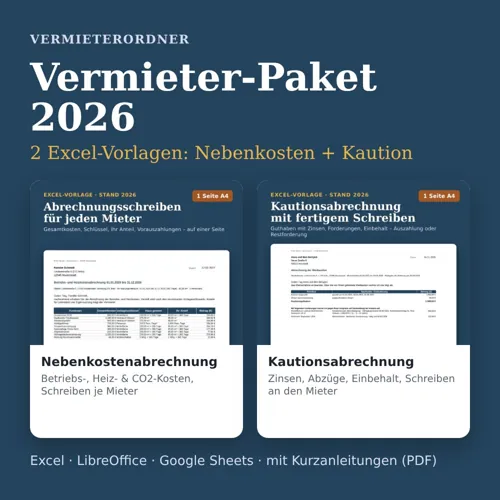
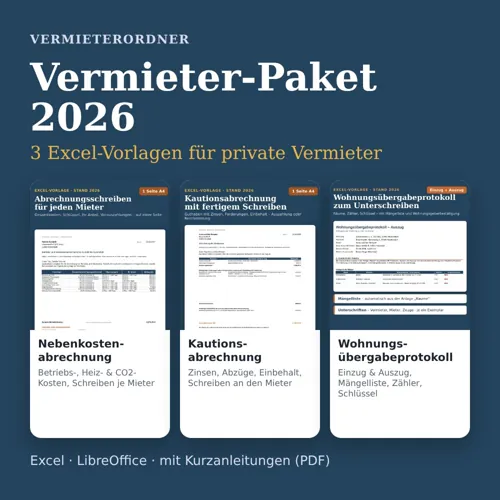
Wohnungsübergabeprotokoll: Checkout aktiv (DS24 759547 genehmigt), Produkt-Pin
Claude-Session: https://claude.ai/code/session_0175UiJjZS6AvFwhkbq53yr1

Changed region(s): [[0.06, 0.36, 0.96, 0.93], [0.36, 0.27, 0.84, 0.33], [0.06, 0.3, 0.09, 0.33]]

diff --git a/docs/wohnungsuebergabeprotokoll.html b/docs/wohnungsuebergabeprotokoll.html
@@ -18,7 +18,7 @@
 <link rel="icon" href="favicon.svg" type="image/svg+xml">
 <link rel="icon" href="favicon-48.png" sizes="48x48" type="image/png"><link rel="apple-touch-icon" href="apple-touch-icon.png">
 <meta name="theme-color" content="#24435C">
-<script type="application/ld+json">{"@context": "https://schema.org", "@type": "FAQPage", "mainEntity": [{"@type": "Question", "name": "Läuft diese Vorlage in Google Sheets?", "acceptedAnswer": {"@type": "Answer", "text": "Sie ist für Microsoft Excel (Windows/Mac) und LibreOffice Calc gebaut. In Google Sheets ist sie nicht getestet."}}, {"@type": "Question", "name": "Brauche ich für Einzug und Auszug zwei Dateien?", "acceptedAnswer": {"@type": "Answer", "text": "Nein. Sie legen beim Einzug eine Kopie an und verwenden sie beim Auszug weiter: das Feld „Art“ auf „Auszug“ stellen und die Spalten für den Auszug ausfüllen. So steht der Vergleich automatisch daneben."}}, {"@type": "Question", "name": "Kann ich auch auf Papier protokollieren?", "acceptedAnswer": {"@type": "Answer", "text": "Ja. Die Blätter „Räume“, „Zähler“ und „Schlüssel“ lassen sich leer ausdrucken, beim Termin von Hand ausfüllen und später in die Datei übertragen."}}, {"@type": "Question", "name": "Wie bekomme ich die Datei?", "acceptedAnswer": {"@type": "Answer", "text": "Direkt nach der Zahlung über den Download-Link auf der Bestätigungsseite und zusätzlich per E-Mail von Digistore24."}}, {"@type": "Question", "name": "Welche Programme brauche ich?", "acceptedAnswer": {"@type": "Answer", "text": "Die Nebenkosten- und die Kautionsabrechnung laufen in Microsoft Excel (Windows/Mac), LibreOffice Calc und Google Sheets – in Google Sheets fehlen der Blattschutz und einige Farbmarkierungen, die Berechnungen stimmen trotzdem. Welche Programme für jede Vorlage gelten, steht auf der jeweiligen Produktseite. Zum Drucken empfehlen wir Excel oder LibreOffice; Sie können auch als PDF speichern."}}, {"@type": "Question", "name": "Für wen sind die Vorlagen gebaut?", "acceptedAnswer": {"@type": "Answer", "text": "Für private Vermieter von Wohnraum in Deutschland. Für Gewerberaum sind sie nicht gebaut. Was jede Vorlage genau abdeckt, steht auf der jeweiligen Produktseite."}}]}</script><script type="application/ld+json">{"@context": "https://schema.org", "@type": "BreadcrumbList", "itemListElement": [{"@type": "ListItem", "position": 1, "name": "Vermieterordner", "item": "https://vermieterordner.de/"}, {"@type": "ListItem", "position": 2, "name": "Wohnungsübergabeprotokoll", "item": "https://vermieterordner.de/wohnungsuebergabeprotokoll.html"}]}</script>
+<script type="application/ld+json">{"@context": "https://schema.org", "@type": "Product", "name": "Wohnungsübergabeprotokoll", "description": "Einzug und Auszug Raum für Raum protokollieren – mit Mängelliste, Zählern, Schlüsseln und Unterschriftsfeldern.", "image": "https://vermieterordner.de/img/uebergabeprotokoll-1.jpg", "brand": {"@type": "Brand", "name": "Vermieterordner"}, "offers": {"@type": "Offer", "price": "9.90", "priceCurrency": "EUR", "availability": "https://schema.org/InStock", "url": "https://vermieterordner.de/wohnungsuebergabeprotokoll.html"}}</script><script type="application/ld+json">{"@context": "https://schema.org", "@type": "FAQPage", "mainEntity": [{"@type": "Question", "name": "Läuft diese Vorlage in Google Sheets?", "acceptedAnswer": {"@type": "Answer", "text": "Sie ist für Microsoft Excel (Windows/Mac) und LibreOffice Calc gebaut. In Google Sheets ist sie nicht getestet."}}, {"@type": "Question", "name": "Brauche ich für Einzug und Auszug zwei Dateien?", "acceptedAnswer": {"@type": "Answer", "text": "Nein. Sie legen beim Einzug eine Kopie an und verwenden sie beim Auszug weiter: das Feld „Art“ auf „Auszug“ stellen und die Spalten für den Auszug ausfüllen. So steht der Vergleich automatisch daneben."}}, {"@type": "Question", "name": "Kann ich auch auf Papier protokollieren?", "acceptedAnswer": {"@type": "Answer", "text": "Ja. Die Blätter „Räume“, „Zähler“ und „Schlüssel“ lassen sich leer ausdrucken, beim Termin von Hand ausfüllen und später in die Datei übertragen."}}, {"@type": "Question", "name": "Wie bekomme ich die Datei?", "acceptedAnswer": {"@type": "Answer", "text": "Direkt nach der Zahlung über den Download-Link auf der Bestätigungsseite und zusätzlich per E-Mail von Digistore24."}}, {"@type": "Question", "name": "Welche Programme brauche ich?", "acceptedAnswer": {"@type": "Answer", "text": "Die Nebenkosten- und die Kautionsabrechnung laufen in Microsoft Excel (Windows/Mac), LibreOffice Calc und Google Sheets – in Google Sheets fehlen der Blattschutz und einige Farbmarkierungen, die Berechnungen stimmen trotzdem. Welche Programme für jede Vorlage gelten, steht auf der jeweiligen Produktseite. Zum Drucken empfehlen wir Excel oder LibreOffice; Sie können auch als PDF speichern."}}, {"@type": "Question", "name": "Für wen sind die Vorlagen gebaut?", "acceptedAnswer": {"@type": "Answer", "text": "Für private Vermieter von Wohnraum in Deutschland. Für Gewerberaum sind sie nicht gebaut. Was jede Vorlage genau abdeckt, steht auf der jeweiligen Produktseite."}}]}</script><script type="application/ld+json">{"@context": "https://schema.org", "@type": "BreadcrumbList", "itemListElement": [{"@type": "ListItem", "position": 1, "name": "Vermieterordner", "item": "https://vermieterordner.de/"}, {"@type": "ListItem", "position": 2, "name": "Wohnungsübergabeprotokoll", "item": "https://vermieterordner.de/wohnungsuebergabeprotokoll.html"}]}</script>
 </head>
 <body>
 <header><div class="wrap">
@@ -31,14 +31,14 @@
 <p class="eyebrow">Excel-Vorlage · Stand 2026</p>
 <h1 class="serif">Wohnungsübergabeprotokoll für private Vermieter – als Excel-Vorlage</h1>
 <p class="lead">Eine Datei für Einzug und Auszug: Zustand Raum für Raum erfassen, Zählerstände und Schlüssel eintragen, Protokoll drucken und unterschreiben lassen. Beim Auszug zeigt die Vorlage automatisch, was seit dem Einzug neu ist – dazu eine Mängelliste und die Wohnungsgeberbestätigung für den Einzug.</p>
-<span class="btn soon" aria-disabled="true">Bald verfügbar</span>
-<p class="note">Erscheint in Kürze: Die Vorlage ist fertig und geprüft, der Kauf über Digistore24 wird gerade eingerichtet.</p>
+<a class="btn" href="https://www.checkout-ds24.com/product/759547" rel="nofollow">Jetzt kaufen – 9,90&nbsp;€</a>
+<p class="note">Digitales Produkt · Download-Link direkt nach dem Kauf · Einmalzahlung, kein Abo</p>
 </div>
 <div><picture><source type="image/webp" srcset="img/uebergabeprotokoll-1-500.webp 500w, img/uebergabeprotokoll-1.webp 1000w" sizes="(max-width:640px) 100vw, 460px"><img class="heroimg" src="img/uebergabeprotokoll-1.jpg" width="1000" height="1000" alt="Produktbild Wohnungsübergabeprotokoll"></picture></div>
 </div>
 <section class="band"><div class="wrap">
 <h2 class="serif">Das bekommen Sie</h2>
-<div class="split"><div><table class="spec"><tr><th>Produkt</th><td>Wohnungsübergabeprotokoll</td></tr><tr><th>Art</th><td>Digitales Produkt zum Herunterladen. Kein Versand, keine Installation, kein Abo.</td></tr><tr><th>Format</th><td>ZIP-Datei mit leerer Excel-Vorlage, ausgefülltem Beispiel (.xlsx) und PDF-Kurzanleitung, Sprache Deutsch.</td></tr><tr><th>Inhalt</th><td>7 Arbeitsblätter: Start mit Übersicht und 8 Prüfungen, Räume (90 Positionen), Zähler, Schlüssel, Protokoll (2 Seiten A4), Wohnungsgeberbestätigung, Info mit Checkliste.</td></tr><tr><th>Lieferung</th><td>Nach Verkaufsstart: Download-Link sofort nach der Zahlung, zusätzlich per E-Mail</td></tr><tr><th>Preis</th><td><strong>9,90&nbsp;€ einmalig</strong></td></tr><tr><th>Für wen</th><td>private Vermieter von Wohnraum – je Übergabe eine Kopie der leeren Vorlage</td></tr></table></div>
+<div class="split"><div><table class="spec"><tr><th>Produkt</th><td>Wohnungsübergabeprotokoll</td></tr><tr><th>Art</th><td>Digitales Produkt zum Herunterladen. Kein Versand, keine Installation, kein Abo.</td></tr><tr><th>Format</th><td>ZIP-Datei mit leerer Excel-Vorlage, ausgefülltem Beispiel (.xlsx) und PDF-Kurzanleitung, Sprache Deutsch.</td></tr><tr><th>Inhalt</th><td>7 Arbeitsblätter: Start mit Übersicht und 8 Prüfungen, Räume (90 Positionen), Zähler, Schlüssel, Protokoll (2 Seiten A4), Wohnungsgeberbestätigung, Info mit Checkliste.</td></tr><tr><th>Lieferung</th><td>Download-Link sofort nach der Zahlung, zusätzlich per E-Mail</td></tr><tr><th>Preis</th><td><strong>9,90&nbsp;€ einmalig</strong></td></tr><tr><th>Für wen</th><td>private Vermieter von Wohnraum – je Übergabe eine Kopie der leeren Vorlage</td></tr></table></div>
 <div class="shots"><picture><source type="image/webp" srcset="img/uebergabeprotokoll-1-500.webp 500w, img/uebergabeprotokoll-1.webp 1000w" sizes="(max-width:640px) 100vw, 360px"><img src="img/uebergabeprotokoll-1.jpg" width="1000" height="1000" alt="Beispielansicht Wohnungsübergabeprotokoll" loading="lazy"></picture><picture><source type="image/webp" srcset="img/uebergabeprotokoll-2-500.webp 500w, img/uebergabeprotokoll-2.webp 1000w" sizes="(max-width:640px) 100vw, 360px"><img src="img/uebergabeprotokoll-2.jpg" width="1000" height="1000" alt="Beispielansicht Wohnungsübergabeprotokoll" loading="lazy"></picture><picture><source type="image/webp" srcset="img/uebergabeprotokoll-3-500.webp 500w, img/uebergabeprotokoll-3.webp 1000w" sizes="(max-width:640px) 100vw, 360px"><img src="img/uebergabeprotokoll-3.jpg" width="1000" height="1000" alt="Beispielansicht Wohnungsübergabeprotokoll" loading="lazy"></picture></div></div>
 </div></section>
 <section><div class="wrap"><h2 class="serif">Was das Produkt kann</h2><div class="grid2"><div class="feat"><h3>Raum für Raum</h3><p>90 Positionen in 11 Bereichen plus 8 freie Zeilen – je Position Zustand, Beschreibung und Foto-Nr., getrennt für Einzug und Auszug. Positionen lassen sich umbenennen oder als „entfällt“ markieren.</p></div><div class="feat"><h3>Vergleich mit dem Einzug</h3><p>Beim Auszug zeigt die Spalte „Vergleich“, was neu seit dem Einzug ist, was schon bei Einzug vorhanden war und wo nur Gebrauchsspuren hinzugekommen sind.</p></div><div class="feat"><h3>Zähler und Schlüssel</h3><p>Zählerstände mit Zählernummer (14 Zeilen) und die übergebenen Schlüssel mit Art und Anzahl (11 Zeilen).</p></div><div class="feat"><h3>Protokoll zum Unterschreiben</h3><p>Zwei Seiten A4 mit Angaben, Ergebnis, Mängelliste, Zählern, Schlüsseln, Vereinbarungen und Unterschriftsfeldern – die Räume-Liste wird als Anlage mitgedruckt.</p></div><div class="feat"><h3>Wohnungsgeberbestätigung</h3><p>Für den Einzug: die Bestätigung nach §&nbsp;19 Bundesmeldegesetz, die der Mieter für die Anmeldung braucht.</p></div><div class="feat"><h3>Prüfungen und Fristen</h3><p>8 Prüfungen auf fehlende Angaben. Beim Auszug nennt die Vorlage das Datum, an dem Ersatzansprüche wegen Schäden verjähren (6 Monate ab Rückgabe, §&nbsp;548 BGB), beim Einzug die Frist für die Wohnungsgeberbestätigung.</p></div></div></div></section>
@@ -48,10 +48,11 @@
 <h3>Läuft diese Vorlage in Google Sheets?</h3><p>Sie ist für Microsoft Excel (Windows/Mac) und LibreOffice Calc gebaut. In Google Sheets ist sie nicht getestet.</p><h3>Brauche ich für Einzug und Auszug zwei Dateien?</h3><p>Nein. Sie legen beim Einzug eine Kopie an und verwenden sie beim Auszug weiter: das Feld „Art“ auf „Auszug“ stellen und die Spalten für den Auszug ausfüllen. So steht der Vergleich automatisch daneben.</p><h3>Kann ich auch auf Papier protokollieren?</h3><p>Ja. Die Blätter „Räume“, „Zähler“ und „Schlüssel“ lassen sich leer ausdrucken, beim Termin von Hand ausfüllen und später in die Datei übertragen.</p><h3>Wie bekomme ich die Datei?</h3><p>Direkt nach der Zahlung über den Download-Link auf der Bestätigungsseite und zusätzlich per E-Mail von Digistore24.</p><h3>Welche Programme brauche ich?</h3><p>Die Nebenkosten- und die Kautions&shy;abrechnung laufen in Microsoft Excel (Windows/Mac), LibreOffice Calc und Google Sheets – in Google Sheets fehlen der Blattschutz und einige Farbmarkierungen, die Berechnungen stimmen trotzdem. Welche Programme für jede Vorlage gelten, steht auf der jeweiligen Produktseite. Zum Drucken empfehlen wir Excel oder LibreOffice; Sie können auch als PDF speichern.</p><h3>Für wen sind die Vorlagen gebaut?</h3><p>Für private Vermieter von Wohnraum in Deutschland. Für Gewerberaum sind sie nicht gebaut. Was jede Vorlage genau abdeckt, steht auf der jeweiligen Produktseite.</p>
 </div></section>
 <section id="kaufen" class="band"><div class="wrap buy">
-<h2 class="serif">Wohnungsübergabeprotokoll – bald verfügbar</h2>
-<p class="sub2">Erscheint in Kürze: Die Vorlage ist fertig und geprüft, der Kauf über Digistore24 wird gerade eingerichtet.</p>
+<h2 class="serif">Wohnungsübergabeprotokoll kaufen</h2>
+<p class="sub2">Digitaler Download · sofort nach der Zahlung verfügbar</p>
 <div class="price-big serif">9,90&nbsp;€</div>
-<span class="btn btn-lg soon" aria-disabled="true">Bald verfügbar</span>
+<a class="btn btn-lg" href="https://www.checkout-ds24.com/product/759547" rel="nofollow">Jetzt kaufen</a>
+<p class="note">Sichere Zahlung und Rechnung über Digistore24. Preis inkl. gesetzlicher MwSt., sofern anfallend.</p>
 </div></section>
 </main>
 <footer><div class="wrap">

diff --git a/docs/uebergabeprotokoll-wohnung.html b/docs/uebergabeprotokoll-wohnung.html
@@ -61,7 +61,7 @@
 <h2 class="serif" id="checkliste">Checkliste für den Übergabetermin</h2>
 <ol><li>Termin früh vereinbaren, bei Tageslicht – mit Mietvertrag, Einzugsprotokoll, Zollstock, Kamera und Ersatzstift.</li><li>Ablesedienst für die Zwischenablesung bestellen.</li><li>Angaben eintragen: Anschrift, Datum, Uhrzeit, Anlass, Anwesende.</li><li>Raum für Raum durchgehen: Wände, Decke, Boden, Fenster, Türen, Heizkörper, Elektrik, Sanitär, Einbauten.</li><li>Jeden Mangel mit Lage, Größe und Foto-Nummer beschreiben; Gebrauchsspuren als solche kennzeichnen.</li><li>Heizung, Warmwasser, Rollläden und Rauchwarnmelder ausprobieren.</li><li>Alle Zählerstände mit Zählernummer notieren und fotografieren.</li><li>Schlüssel zählen und mit der Liste abgleichen.</li><li>Vereinbarungen mit Frist aufschreiben, Vorbehalt für verdeckte Mängel einfügen.</li><li>Beide unterschreiben, jede Seite erhält ein Exemplar. Beim Einzug die Wohnungsgeberbestätigung übergeben, beim Auszug das Datum für die 6-Monats-Frist notieren.</li></ol>
 <p>Die <a href="wohnungsuebergabeprotokoll.html">Excel-Vorlage Wohnungsübergabeprotokoll</a> enthält 90 Positionen in 11 Bereichen, Zähler- und Schlüssellisten, ein zweiseitiges Protokoll zum Unterschreiben und die Wohnungsgeberbestätigung. Beim Auszug zeigt sie automatisch, was seit dem Einzug neu ist, und nennt das Datum, an dem Ihre Ersatzansprüche verjähren.</p>
-<div class="cta"><h3>Wohnungsübergabeprotokoll</h3><p>Einzug und Auszug Raum für Raum protokollieren – mit Mängelliste, Zählern, Schlüsseln und Unterschriftsfeldern.</p><p class="note">Erscheint in Kürze.</p><a class="btn" href="wohnungsuebergabeprotokoll.html">Wohnungsübergabeprotokoll ansehen</a></div>
+<div class="cta"><h3>Wohnungsübergabeprotokoll</h3><p>Einzug und Auszug Raum für Raum protokollieren – mit Mängelliste, Zählern, Schlüsseln und Unterschriftsfeldern.</p><a class="btn" href="wohnungsuebergabeprotokoll.html">Wohnungsübergabeprotokoll ansehen</a></div>
 <h2 class="serif" id="faq">Häufige Fragen</h2><div class="faq" style="max-width:none"><h3>Muss der Mieter das Übergabeprotokoll unterschreiben?</h3><p>Nur wenn der Mietvertrag es vorsieht – eine gesetzliche Pflicht gibt es nicht. Verweigert der Mieter die Unterschrift, vermerken Sie das im Protokoll, unterschreiben selbst und lassen nach Möglichkeit einen Zeugen gegenzeichnen. Fotos mit Datum werden dann umso wichtiger.</p><h3>Reichen Fotos statt eines Protokolls?</h3><p>Fotos sind ein guter Beleg, ersetzen aber nicht die gemeinsame Erklärung beider Seiten über den Zustand. Am stärksten ist die Kombination – im Protokoll steht zu jedem Mangel die Foto-Nummer.</p><h3>Was ist mit Mängeln, die erst nach der Rückgabe auffallen?</h3><p>Für Mängel, die beim Termin nicht erkennbar waren, sollte das Protokoll einen Vorbehalt enthalten („verdeckte Mängel bleiben vorbehalten“). Melden Sie sie dem Mieter so bald wie möglich – Ersatzansprüche wegen Schäden verjähren auch hier 6 Monate nach Rückgabe der Wohnung.</p><h3>Muss ich beim Auszug die Zählerstände ablesen?</h3><p>Für Heizung und Warmwasser schreibt die Heizkosten&shy;verordnung bei einem Nutzerwechsel grundsätzlich eine Zwischenablesung durch den Gebäudeeigentümer vor (§&nbsp;9b HeizkostenV) – oft erledigt das der Ablesedienst. Notieren Sie trotzdem alle Stände mit Zählernummer im Protokoll; das hilft bei der nächsten Nebenkosten&shy;abrechnung.</p></div>
 <h2 class="serif">Quellen</h2><ul class="src"><li><a href="https://www.gesetze-im-internet.de/bgb/__536b.html" rel="noopener">§&nbsp;536b BGB – Kenntnis des Mieters vom Mangel bei Vertragsschluss oder Annahme (gesetze-im-internet.de)</a></li><li><a href="https://www.gesetze-im-internet.de/bgb/__538.html" rel="noopener">§&nbsp;538 BGB – Abnutzung der Mietsache durch vertragsgemäßen Gebrauch (gesetze-im-internet.de)</a></li><li><a href="https://www.gesetze-im-internet.de/bgb/__548.html" rel="noopener">§&nbsp;548 BGB – Verjährung der Ersatzansprüche und des Wegnahmerechts (gesetze-im-internet.de)</a></li><li><a href="https://www.gesetze-im-internet.de/bgb/__193.html" rel="noopener">§&nbsp;193 BGB – Sonn- und Feiertag; Sonnabend (gesetze-im-internet.de)</a></li><li><a href="https://www.gesetze-im-internet.de/heizkostenv/__9b.html" rel="noopener">§&nbsp;9b HeizkostenV – Kostenaufteilung bei Nutzerwechsel (gesetze-im-internet.de)</a></li><li><a href="https://www.gesetze-im-internet.de/bmg/__17.html" rel="noopener">§&nbsp;17 BMG – Anmeldung, Abmeldung (gesetze-im-internet.de)</a></li><li><a href="https://www.gesetze-im-internet.de/bmg/__19.html" rel="noopener">§&nbsp;19 BMG – Mitwirkung des Wohnungsgebers (gesetze-im-internet.de)</a></li><li><a href="https://dejure.org/dienste/vernetzung/rechtsprechung?Gericht=OLG+Dresden&amp;Datum=07.09.2022&amp;Aktenzeichen=5+U+816%2F22" rel="noopener">OLG Dresden, Urteil vom 07.09.2022, 5 U 816/22 – Wirkung eines Rückgabeprotokolls (dejure.org)</a></li><li><a href="https://dejure.org/dienste/vernetzung/rechtsprechung?Gericht=BGH&amp;Datum=05.03.2014&amp;Aktenzeichen=VIII+ZR+205%2F13" rel="noopener">BGH, Urteil vom 05.03.2014, VIII ZR 205/13 – Schlüsselverlust bei Schließanlage (dejure.org)</a></li><li><a href="https://dejure.org/dienste/vernetzung/rechtsprechung?Gericht=BGH&amp;Datum=28.06.2006&amp;Aktenzeichen=VIII+ZR+124%2F05" rel="noopener">BGH, Urteil vom 28.06.2006, VIII ZR 124/05 – „besenrein“ (dejure.org)</a></li></ul>
 <p class="note">Dieser Ratgeber gibt allgemeine Informationen und ersetzt keine individuelle Beratung.</p>
